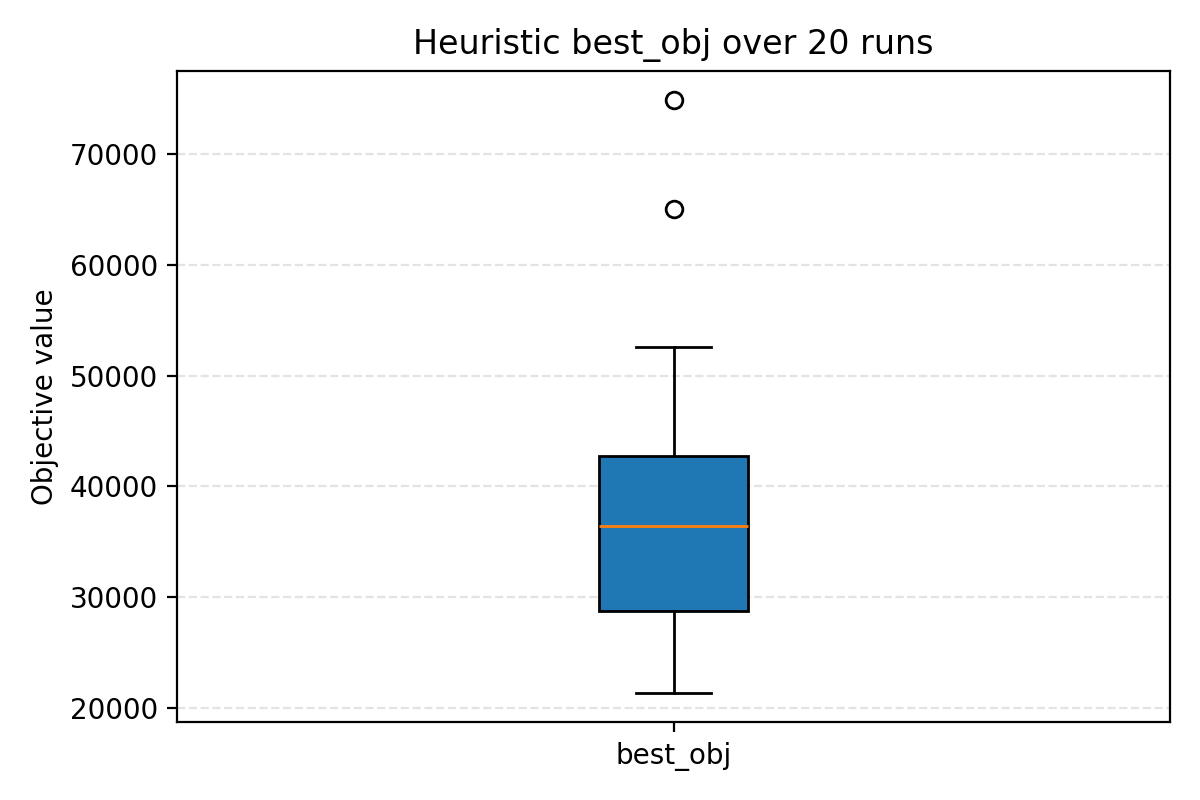
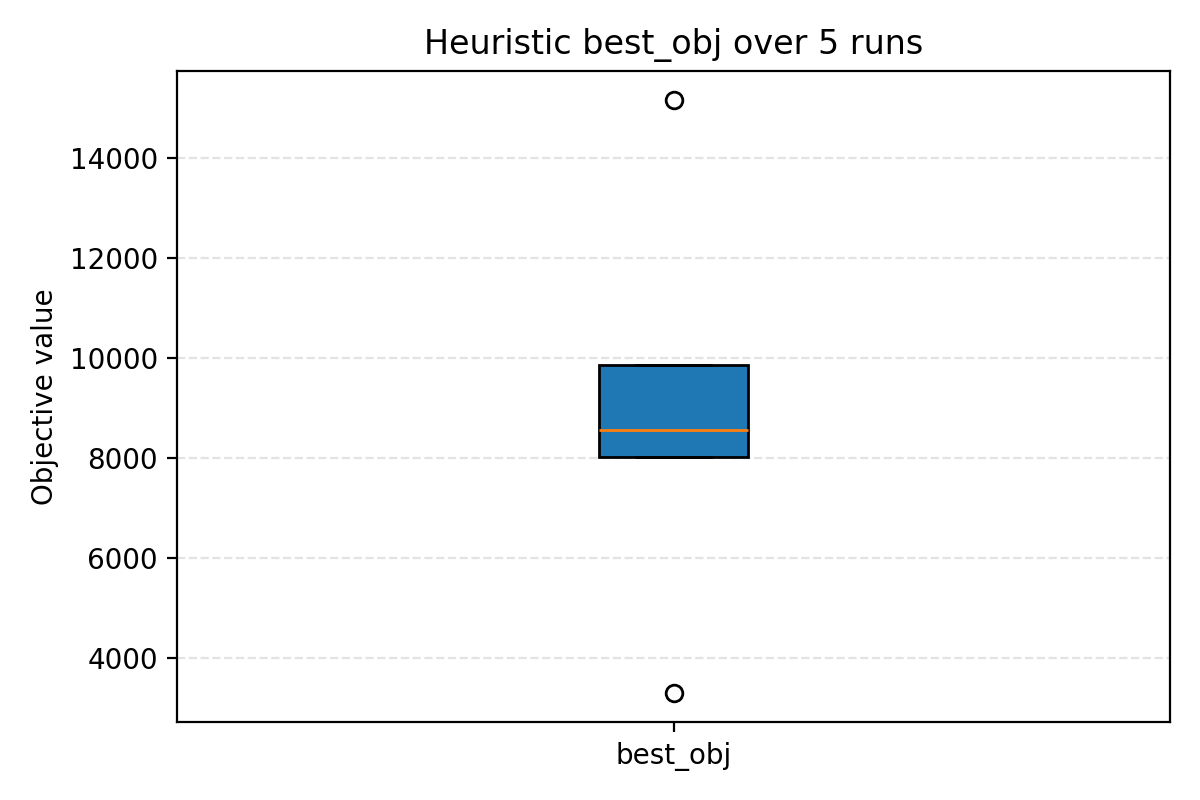
Experimental study, also added output to heuristic func to return profit (obj + "penaties from battery and passengers)

diff --git a/DataGen/LTM/LTMPassAssignRand.py b/DataGen/LTM/LTMPassAssignRand.py
@@ -6,7 +6,7 @@ import matplotlib.pyplot as plt
 # SETTINGS
 # =====================================================
 
-GROUPS_PER_DAY = 40
+GROUPS_PER_DAY = 25
 
 # -----------------------------------------------------
 # SIMULATION TIME
@@ -154,7 +154,7 @@ def sample_departure_time_valid():
 def sample_group_size():
 
     # Fully random group size
-    return np.random.choice([1, 2, 3, 4])
+    return np.random.choice([1, 2, 3, 4], p=[0.1, 0.2, 0.3, 0.4])
 
 # =====================================================
 # GENERATE DEMAND